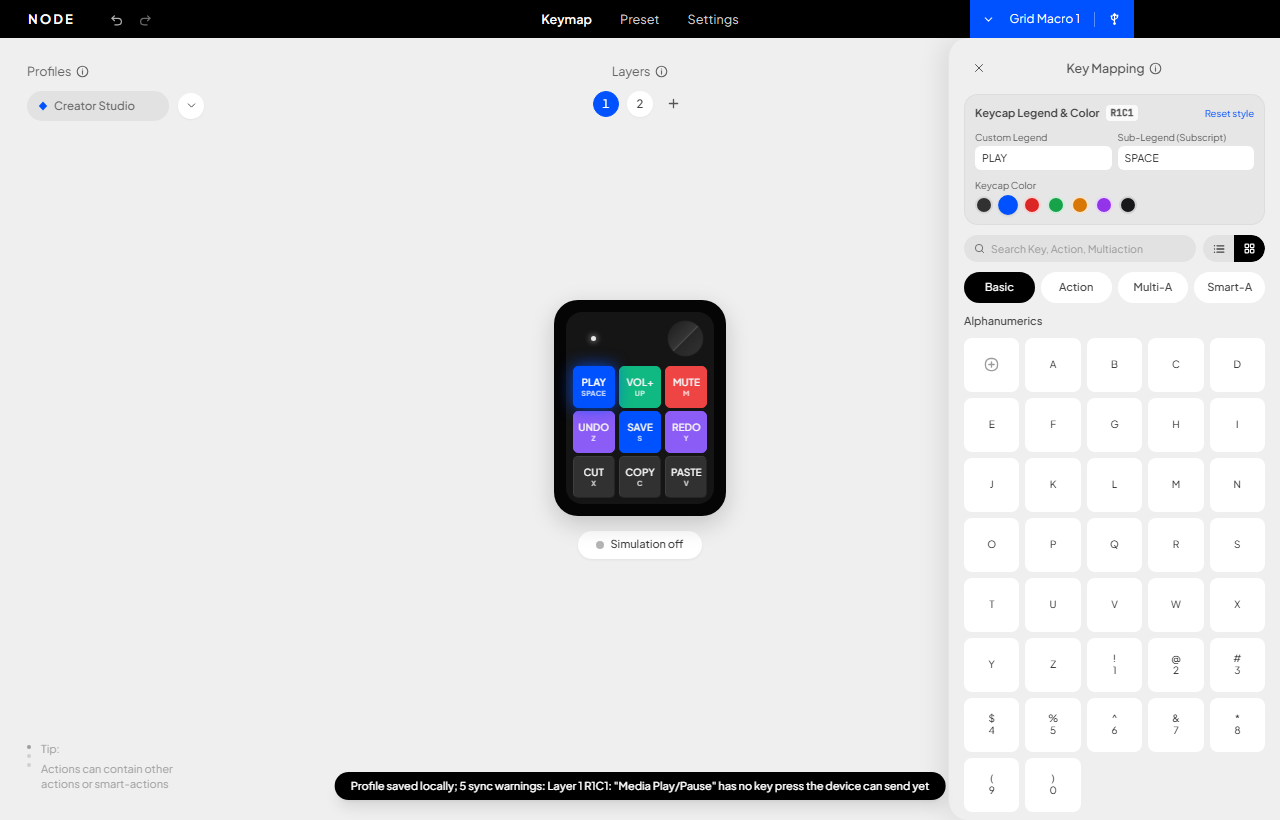
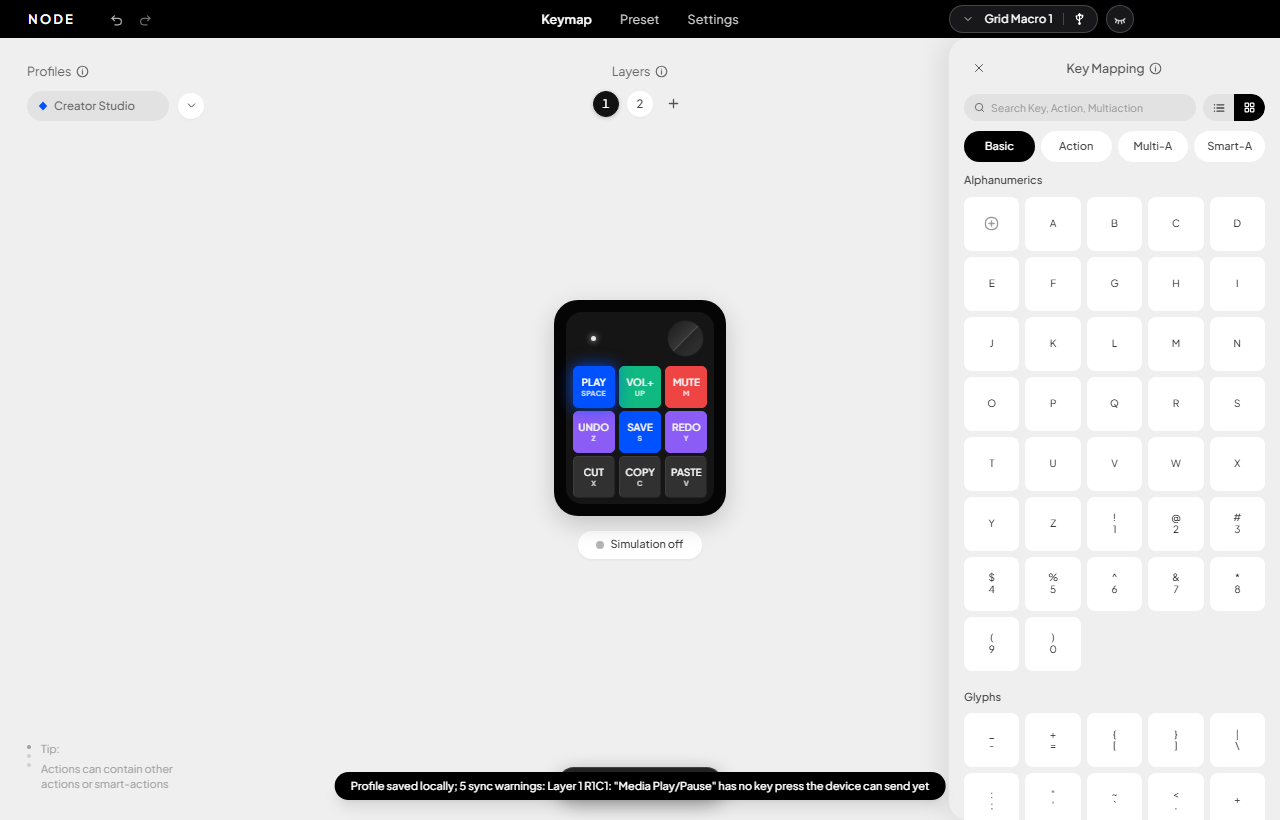
docs(tutorial): refresh tutorial screenshots with v1.1.14 ui, tray controls, and settings

diff --git a/src/components/ProfileSelectorCapsule.tsx b/src/components/ProfileSelectorCapsule.tsx
@@ -422,6 +422,33 @@ export function ProfileSelectorCapsule({
                   </svg>
                   <span>Import</span>
                 </button>
+
+                {onOpenCommunityHub && (
+                  <button
+                    onClick={() => {
+                      setProfileMenuOpen(false);
+                      onOpenCommunityHub();
+                    }}
+                    title="Browse & install community-shared profiles"
+                    className="h-[28px] px-[9px] rounded-full bg-white hover:bg-[#0051ff] hover:text-white border-[1.5px] border-transparent hover:border-[#0051ff] flex items-center justify-center gap-[4px] text-[10.5px] font-medium text-[#444444] shadow-[0_1px_2px_rgba(0,0,0,0.04)] transition-all cursor-pointer"
+                  >
+                    <svg
+                      width="11"
+                      height="11"
+                      viewBox="0 0 24 24"
+                      fill="none"
+                      stroke="currentColor"
+                      strokeWidth="2"
+                      strokeLinecap="round"
+                      strokeLinejoin="round"
+                    >
+                      <circle cx="12" cy="12" r="10" />
+                      <line x1="2" y1="12" x2="22" y2="12" />
+                      <path d="M12 2a15.3 15.3 0 0 1 4 10 15.3 15.3 0 0 1-4 10 15.3 15.3 0 0 1-4-10 15.3 15.3 0 0 1 4-10z" />
+                    </svg>
+                    <span>Hub</span>
+                  </button>
+                )}
               </div>
             </motion.div>
           )}

diff --git a/e2e/captureScreenshots.spec.ts b/e2e/captureScreenshots.spec.ts
@@ -77,7 +77,8 @@ test.describe('Tutorial Screenshots Capture', () => {
           ok: true,
           settings: {
             launchAtStartup: true,
-            allowTerminalSmartActions: false,
+            startHiddenInTray: true,
+            allowTerminalSmartActions: true,
             allowDeviceNotifications: true,
             autoSwitchProfile: true,
             appProfileRules: [
